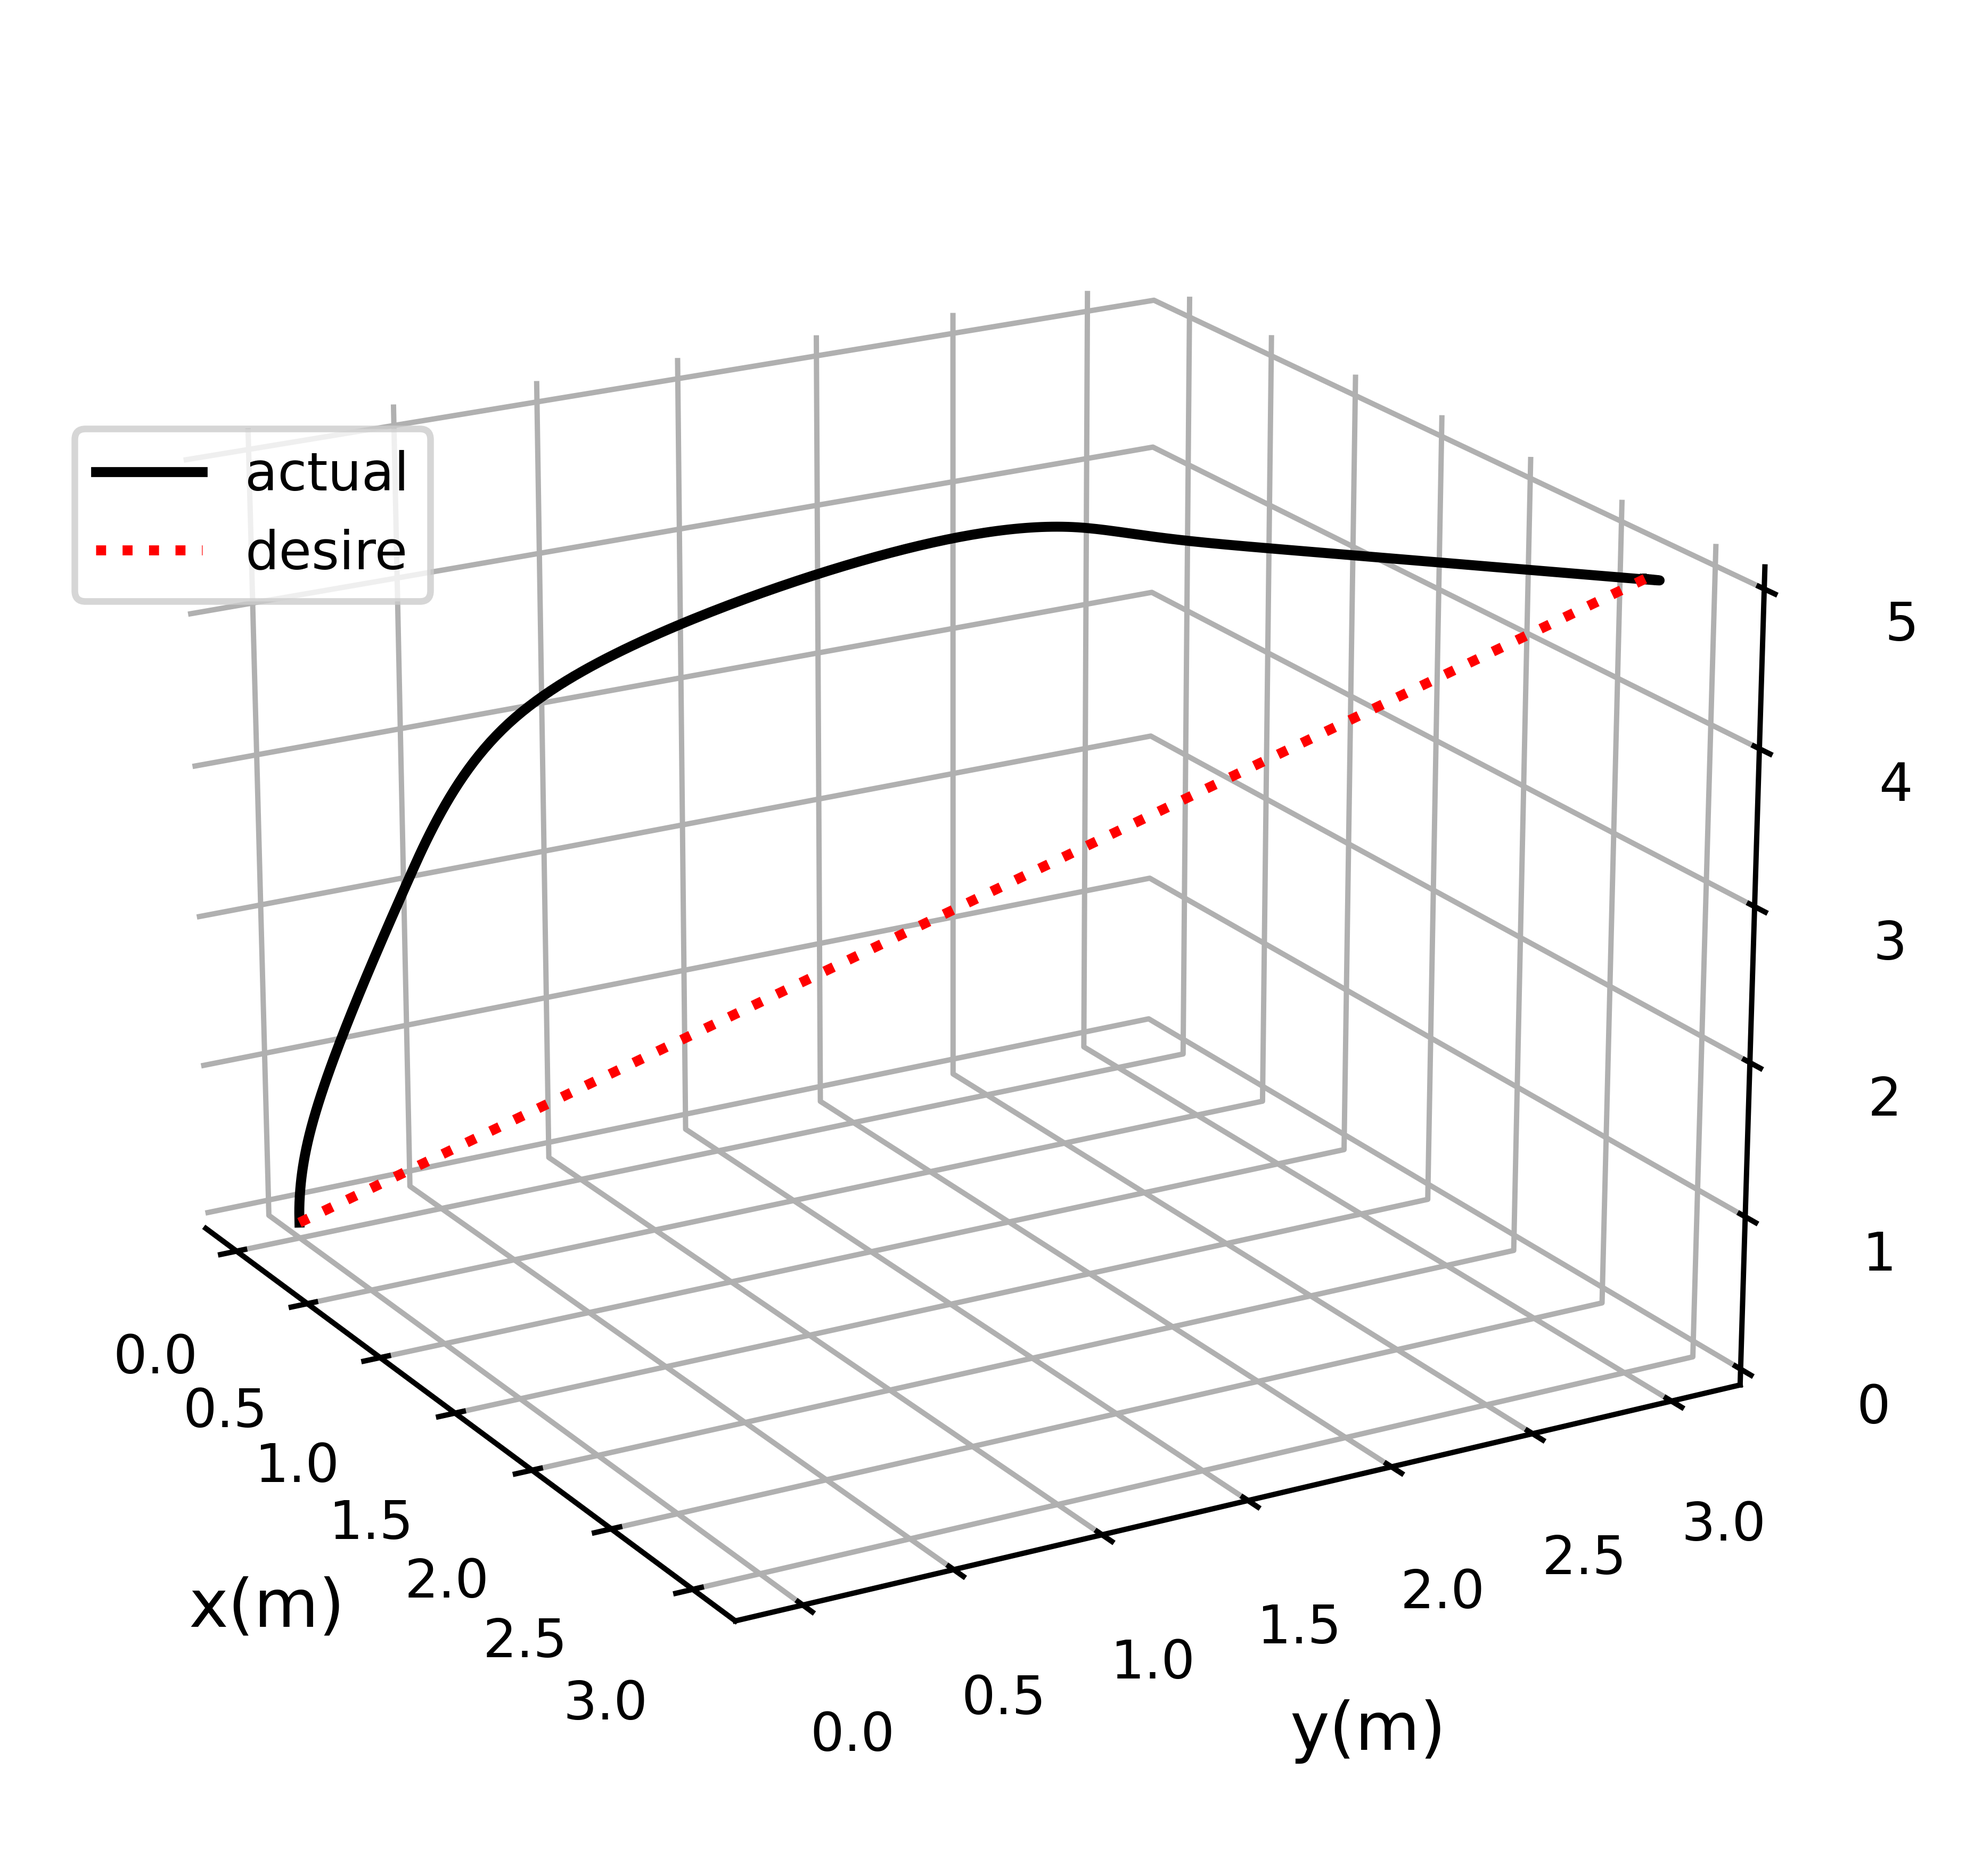
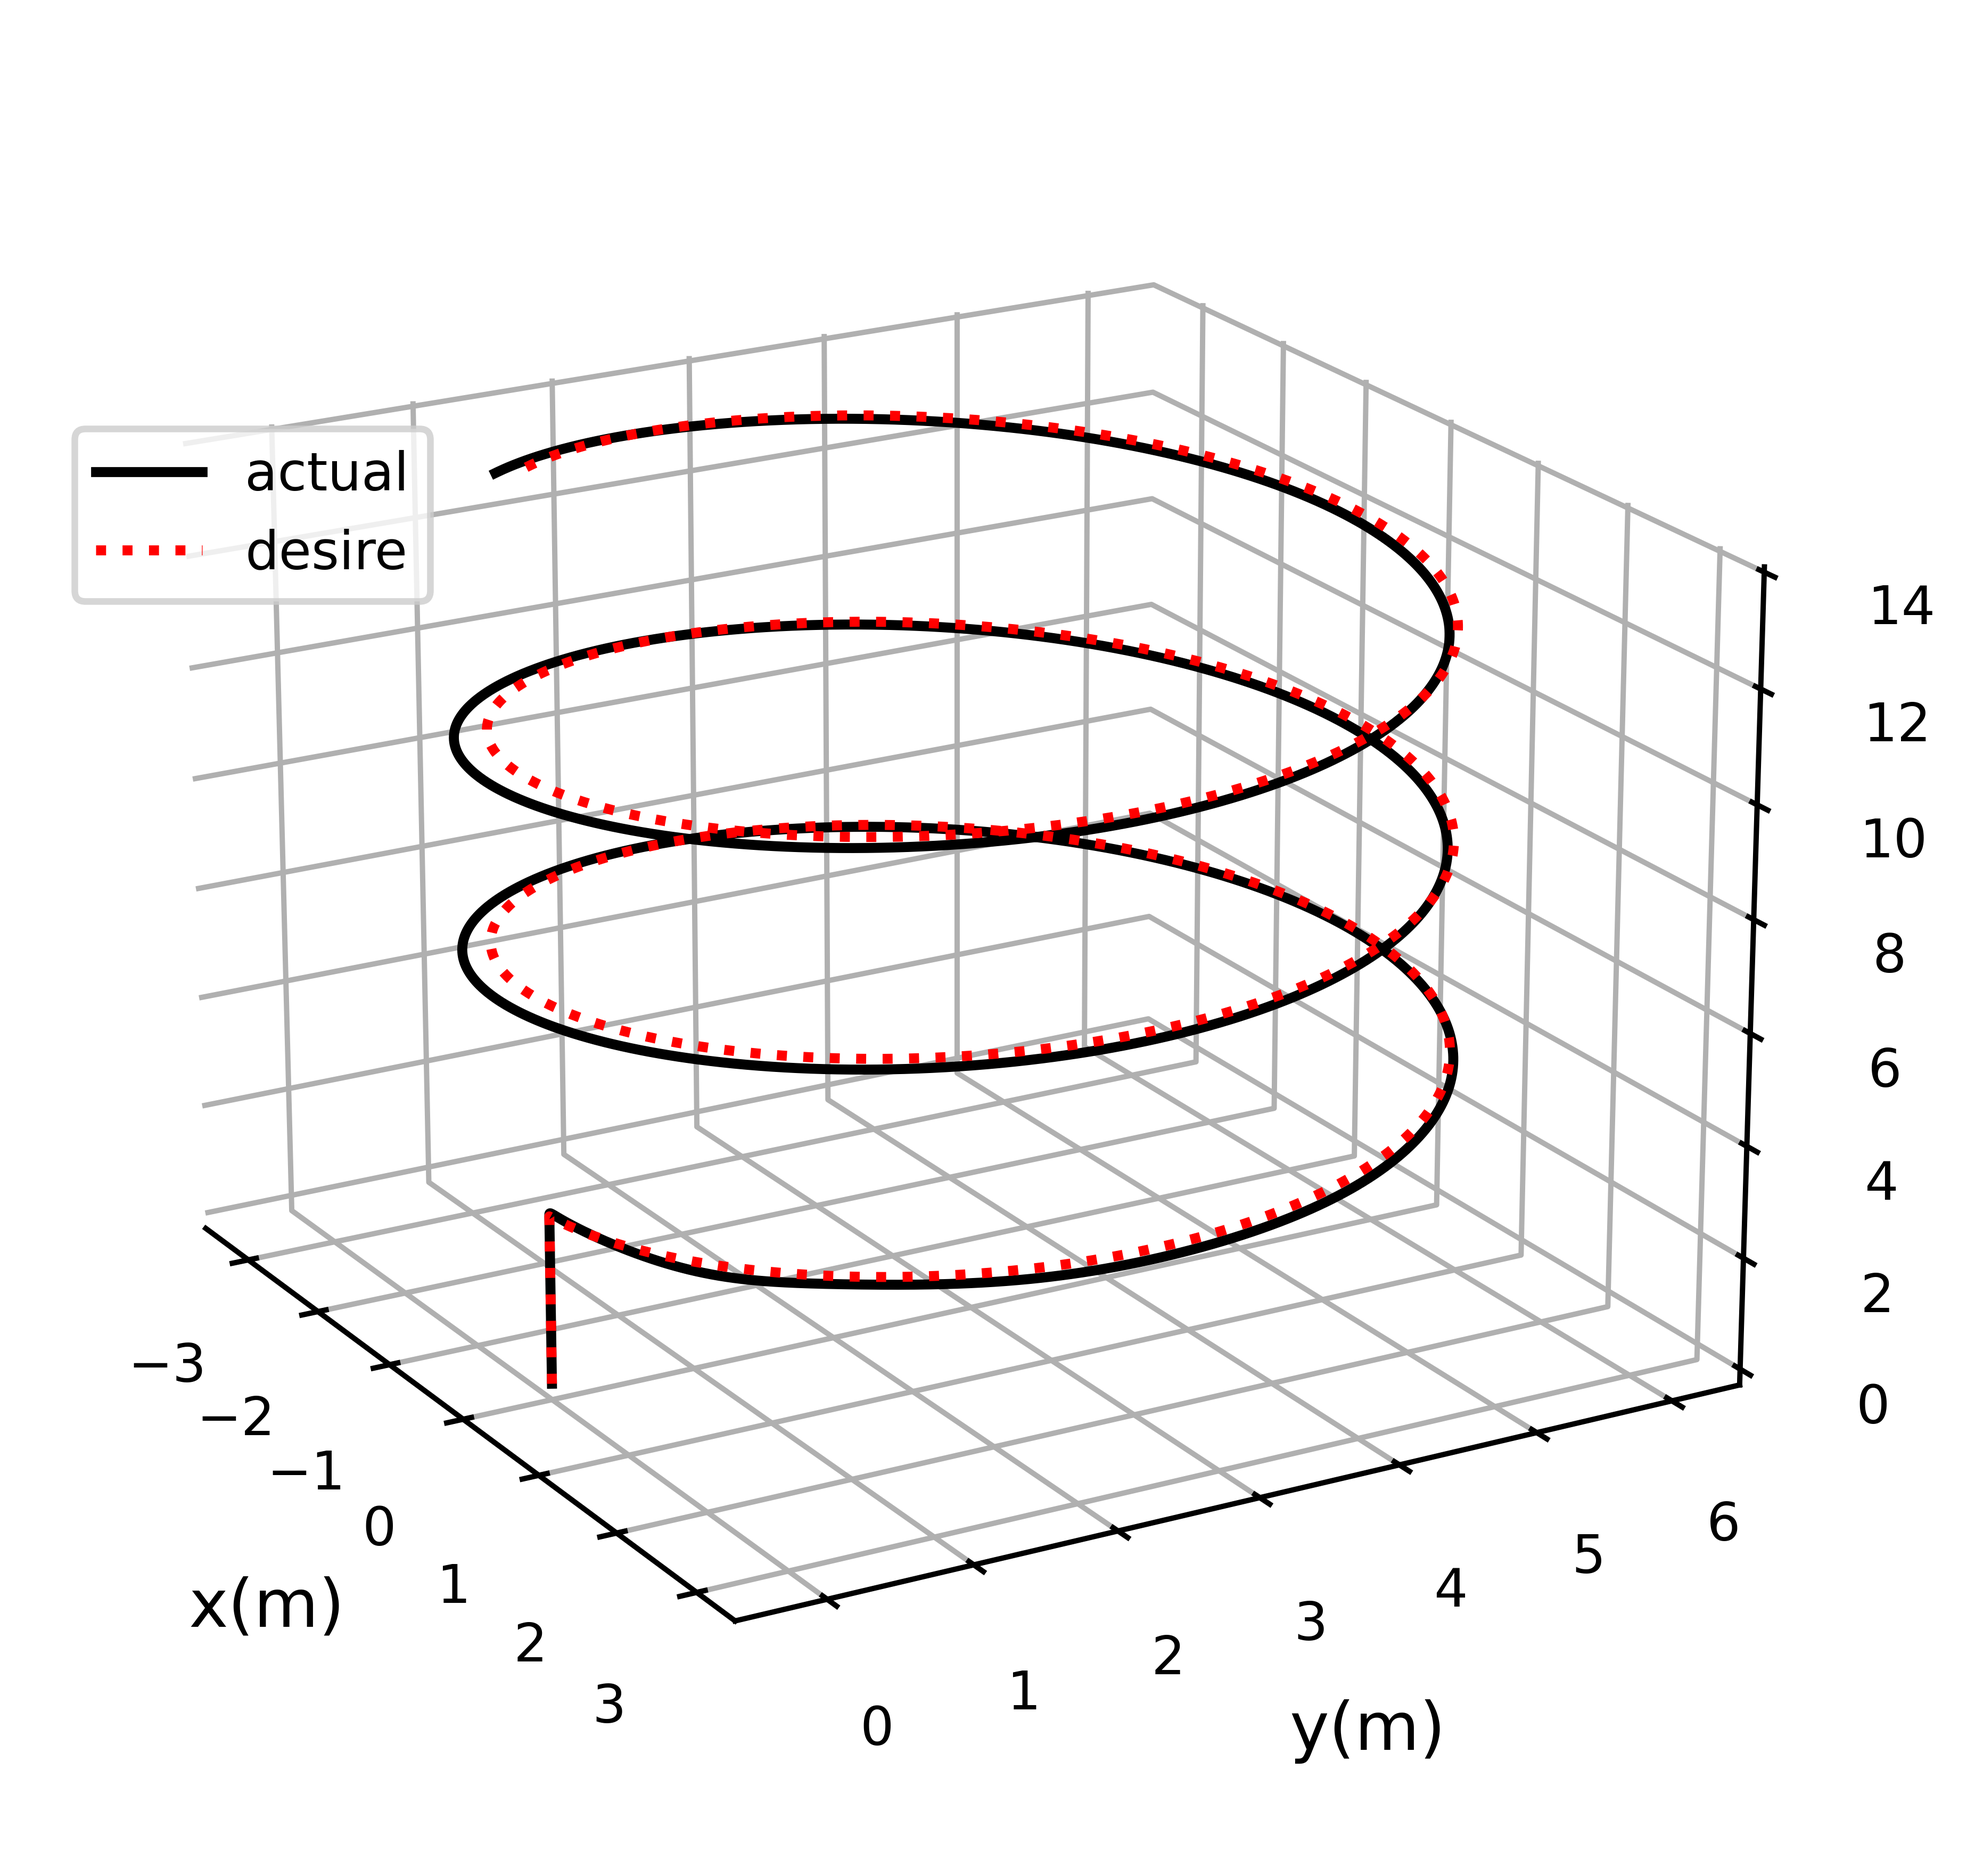
可以正常使用的几何控制

diff --git a/tools/trajectory_generator.py b/tools/trajectory_generator.py
@@ -9,10 +9,10 @@ class trajectory_generator():
         self.trajectory = [0, 0, 0, 0, 0, 0, 0] # [x, y, z, psi, vx, vy, vz]  
         self.dt = dt
         self.t = 0
-        self.takeoff_vel = -0.1
-        self.takeoff_height = -3
+        self.takeoff_vel = 0.5
+        self.takeoff_height = 3
         self.circular_radius = 3
-        self.angular_vel = 3 / self.circular_radius
+        self.angular_vel = 1 / self.circular_radius
 
     def takeoff(self):
         self.trajectory[2] += self.takeoff_vel * self.dt
@@ -23,13 +23,13 @@ class trajectory_generator():
         if self.trajectory_type == self.CIRCULAR: # 圆心为（0, radius）, 轨迹方程为 x^2 + (y-radius)^2 = radius^2; x = radius * cos(omega * t - pi / 2), y = radius * (sin(omega * t - pi / 2) + 1) 
             self.trajectory[0] = self.circular_radius * math.cos(self.angular_vel * self.t - math.pi / 2)
             self.trajectory[1] = self.circular_radius * (math.sin(self.angular_vel * self.t - math.pi / 2) + 1)
-            self.trajectory[2] = self.takeoff_height
+            self.trajectory[2] += 0.2 * self.dt
             self.trajectory[3] = 0
             self.trajectory[4] = - self.angular_vel * self.circular_radius * math.sin(self.angular_vel * self.t - math.pi / 2)
             self.trajectory[5] = self.angular_vel * self.circular_radius * math.cos(self.angular_vel * self.t - math.pi / 2)
             self.trajectory[6] = 0
         else:
-            self.trajectory[0] = 0
+            self.trajectory[0] = 1
             self.trajectory[1] = 1
             self.trajectory[2] = self.takeoff_height
             self.trajectory[3] = 0

diff --git a/geometic_control_demo.py b/geometic_control_demo.py
@@ -23,14 +23,14 @@ def calculate_throttle(f_tau):
 def main():
     quadrotors_model = QModel.QuadrotorsModel()  # 创建四旋翼模型对象
     controller = geometric_controller.geometric_controller(QPara.m, QPara.g)
-    traj_generator = trajectory_generator(QPara.dt, trajectory_generator.STRAIGHT)
+    traj_generator = trajectory_generator(QPara.dt, trajectory_generator.CIRCULAR)
     t = []  # 创建时间列表，初始时间为0
     y_list = [] 
     t_now = 0  # 当前时间初始化为0
     des_traj = []
 
     ctrl_buffer = np.zeros(6)
-    f_list = [0]
+    f_list = [np.array([0])]
     flag = False
     while t_now < 60:
         y_now = quadrotors_model.measurement
@@ -71,7 +71,7 @@ def main():
     t.append(t_now)
     plt.plot(t, f_list)
     draw.draw(t,ctrl_buffer, quadrotors_model.measurement_buffer, 0, 0, "euler")
-    # draw3d.draw3d( ctrl_buffer, quadrotors_model.measurement_buffer, 0, "euler3D")
+    draw3d.draw3d( ctrl_buffer, quadrotors_model.measurement_buffer, 0, "euler3D")
 
 if __name__ == '__main__':
     main()  # 调用main()函数进行程序执行

diff --git a/controllers/geometric_controller.py b/controllers/geometric_controller.py
@@ -9,10 +9,10 @@ class geometric_controller:
     def __init__(self, m = 2.2, g = 9.8):
         self.m = m
         self.g = g
-        self.KP = np.diag([1, 1, 1])
-        self.KV = np.diag([5, 5, 5])
-        self.KR = np.diag([2, 2, 2])
-        self.KW = np.diag([5, 5, 5])
+        self.KP = np.diag([0.8, 0.8, 10])
+        self.KV = np.diag([10, 10, 10])
+        self.KR = np.diag([4, 4, 4])
+        self.KW = np.diag([2, 2, 2])
 
     def calculate_output(self, r, r_dot, R, angular_vel, r_des, r_dot_des, r_ddot_des, psi_des, angular_vel_des = np.array([0, 0, 0]).reshape(-1, 1)):
         """
